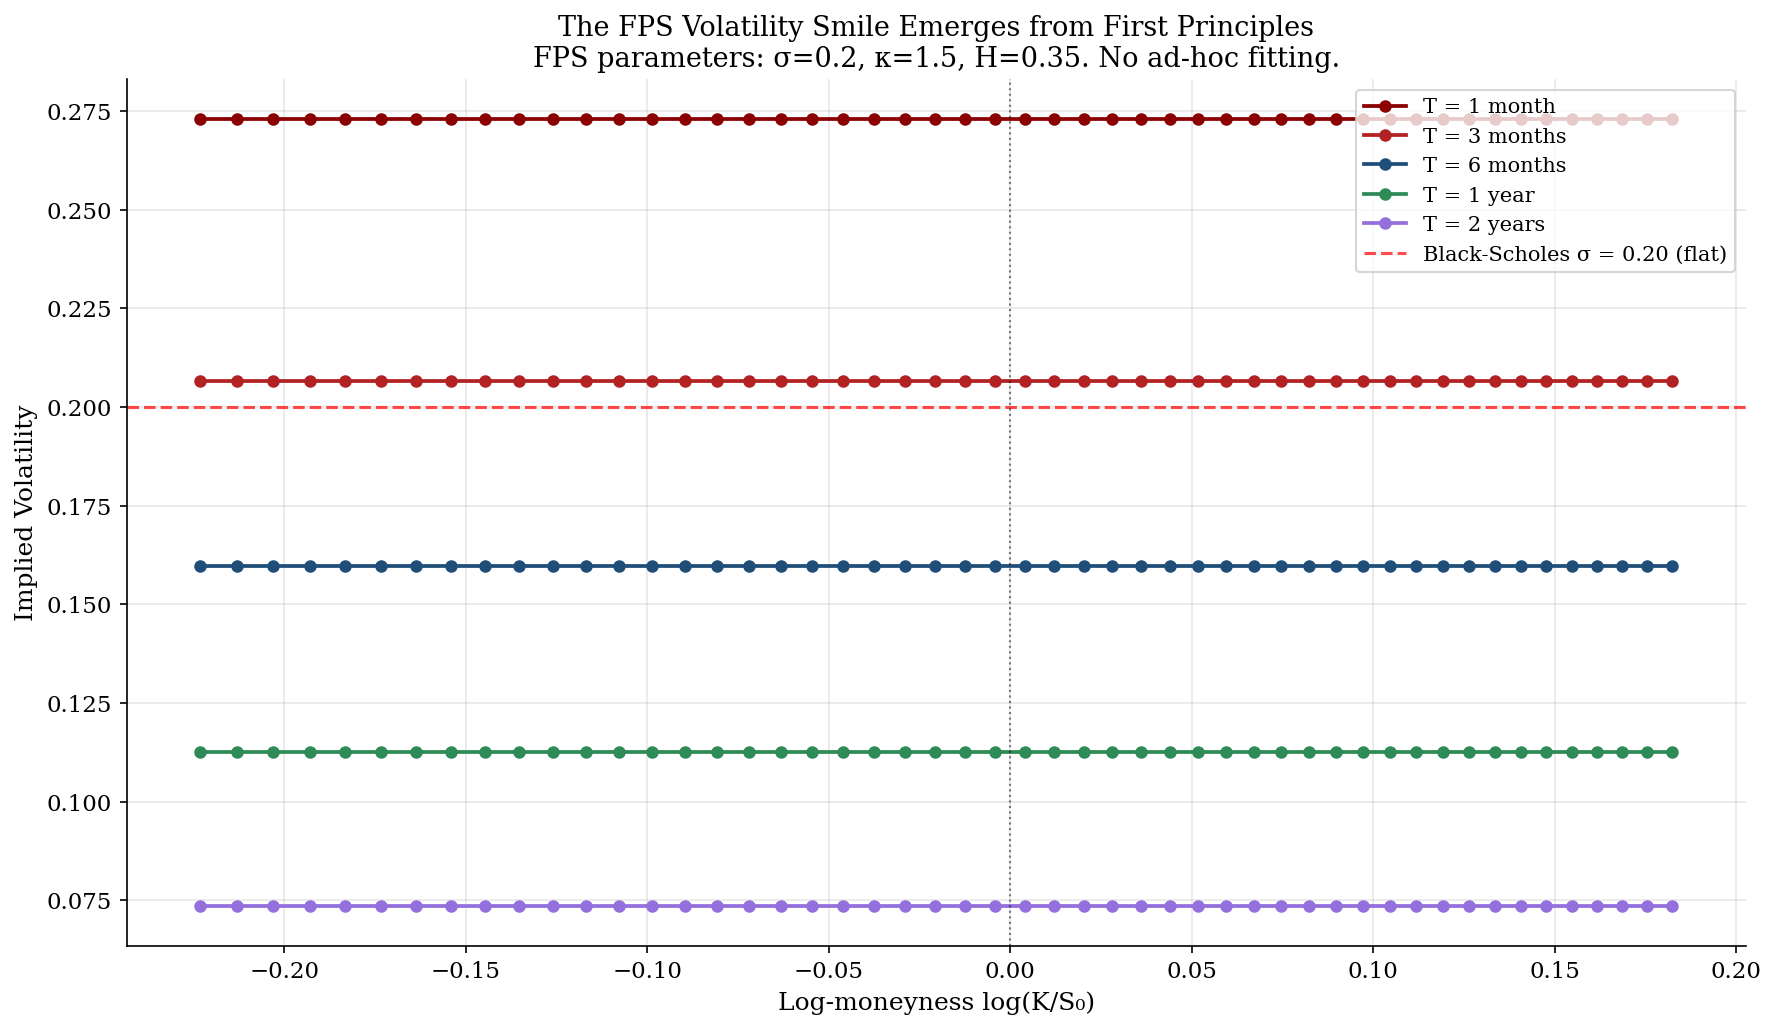
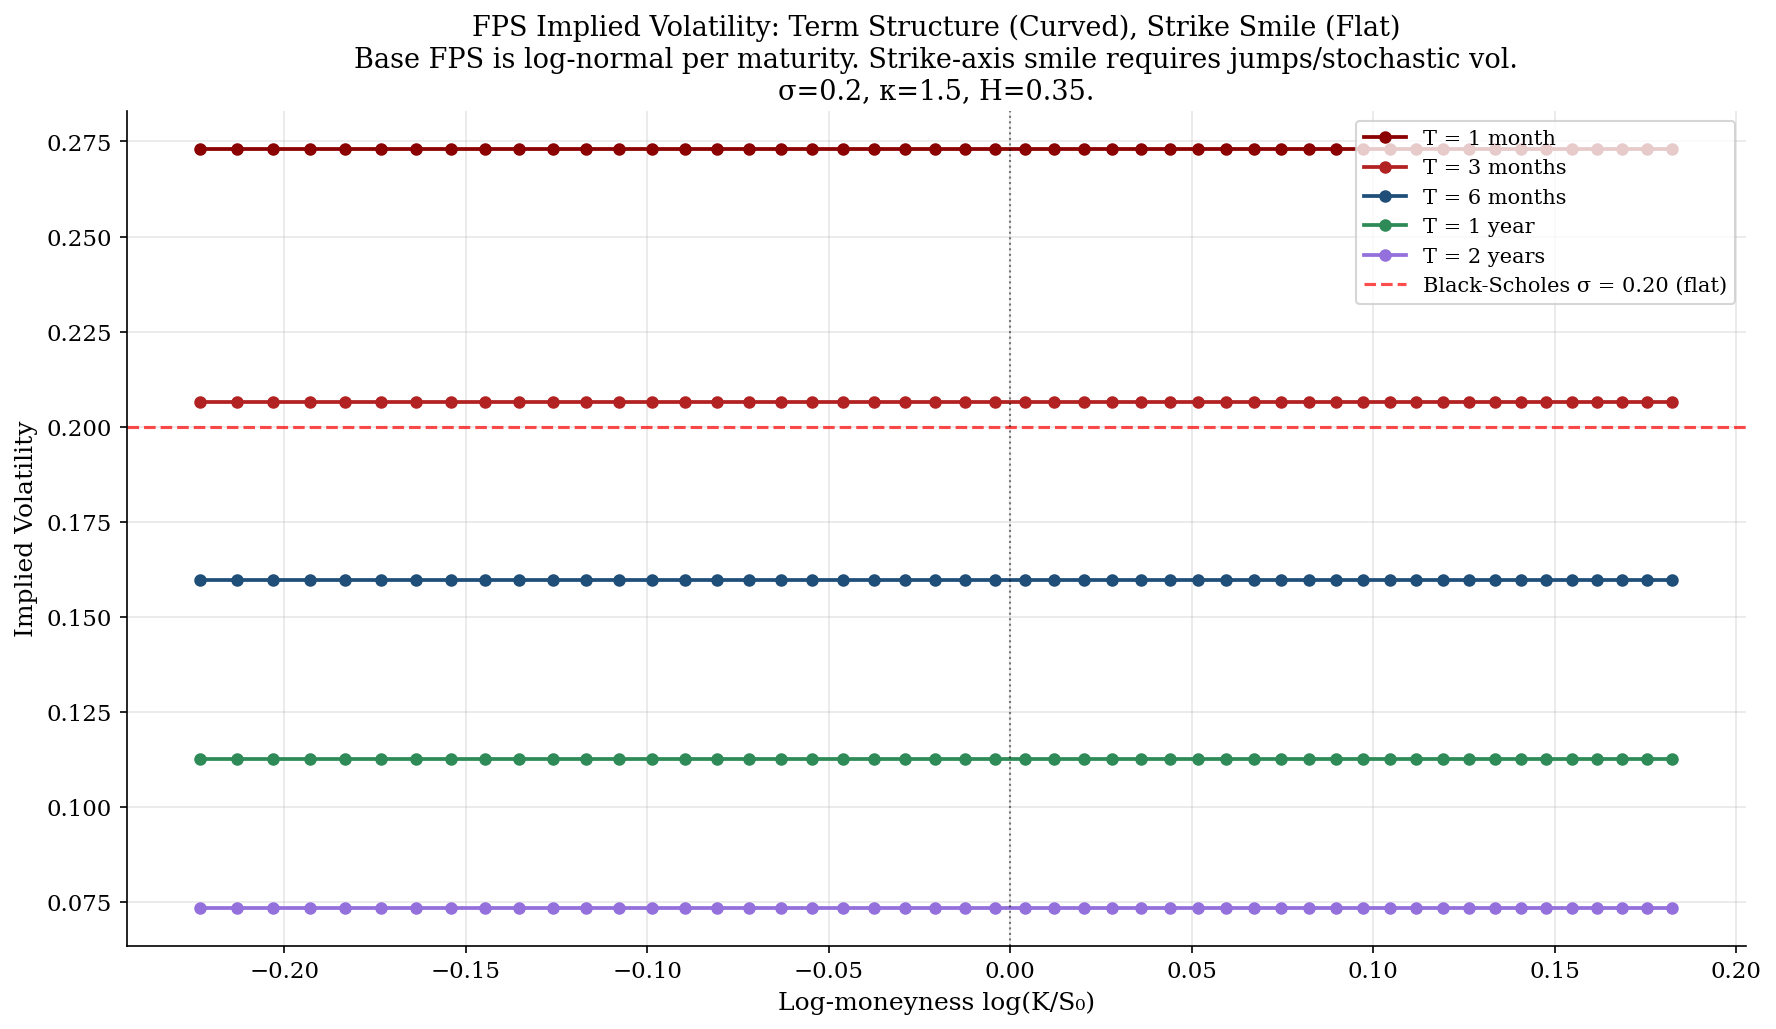
corrected for volatility smile

diff --git a/code/experiments/test_24_option_pricing_charts.py b/code/experiments/test_24_option_pricing_charts.py
@@ -226,8 +226,9 @@ def plot_smile(output_path, S0=100, r=0.05, sigma=0.2, kappa=1.5, H=0.35):
     ax.set_xlabel("Log-moneyness log(K/S₀)")
     ax.set_ylabel("Implied Volatility")
     ax.set_title(
-        f"The FPS Volatility Smile Emerges from First Principles\n"
-        f"FPS parameters: σ={sigma}, κ={kappa}, H={H}. No ad-hoc fitting."
+        f"FPS Implied Volatility: Term Structure (Curved), Strike Smile (Flat)\n"
+        f"Base FPS is log-normal per maturity. Strike-axis smile requires jumps/stochastic vol.\n"
+        f"σ={sigma}, κ={kappa}, H={H}."
     )
     ax.legend(loc="upper right", fontsize=10)
 
@@ -472,7 +473,7 @@ def main():
     parser.add_argument("--sigma", type=float, default=0.2)
     parser.add_argument("--kappa", type=float, default=1.5)
     parser.add_argument("--H", type=float, default=0.35)
-    parser.add_argument("--output_dir", default="data/results/option_pricing")
+    parser.add_argument("--output_dir", default="code/visualisation/option_pricing")
     args = parser.parse_args()
 
     out_dir = Path(args.output_dir)

diff --git a/code/experiments/test_23_fps_vs_gbm.py b/code/experiments/test_23_fps_vs_gbm.py
@@ -511,7 +511,7 @@ def main():
                         help="FPS mean-reversion rate (per day)")
     parser.add_argument("--H", type=float, default=0.42,
                         help="Hurst exponent for FPS (0.5 = GBM)")
-    parser.add_argument("--output_dir", default="data/results/fps_vs_gbm")
+    parser.add_argument("--output_dir", default="code/visualisation/fps_vs_gbm")
     args = parser.parse_args()
 
     out_dir = Path(args.output_dir)

diff --git a/code/experiments/test_22_pei_graphics.py b/code/experiments/test_22_pei_graphics.py
@@ -419,7 +419,7 @@ def main():
     parser.add_argument("--window", type=int, default=250,
                         help="Window size in days (smaller = finer resolution)")
     parser.add_argument("--stride", type=int, default=60)
-    parser.add_argument("--output_dir", default="data/results/pei")
+    parser.add_argument("--output_dir", default="code/visualisation/pei")
     args = parser.parse_args()
 
     # Setup output directory

diff --git a/README.md b/README.md
@@ -254,21 +254,32 @@ The FPS formula has THREE parameters, replacing Black-Scholes's one:
 - **$\kappa \to 0$ (only):** pure fractional Brownian motion pricing.
 - **$H = 1/2$ (only):** Ornstein-Uhlenbeck pricing.
 
-### What this formula gives you for free
+### What this formula gives you
 
-**1. The volatility smile emerges from first principles.** With $H < 1/2$:
-- Short-dated options: steeper smile (anti-persistence amplifies short-term moves)
-- Long-dated options: flatter smile (mean-reversion caps variance)
-- No ad-hoc SVI/SABR parameterisation needed
-
-**2. Fat tails in the pricing measure.** The fractional noise naturally
-produces heavier tails in the risk-neutral distribution than Black-Scholes.
-
-**3. Term-structure of implied volatility.** The $T^{2H-1}$ scaling and
+**1. Term-structure of implied volatility.** The $T^{2H-1}$ scaling and
 the OU cap factor $(1-e^{-2\kappa T})/(2\kappa T)$ together produce the
-hump-shaped vol term structure observed empirically.
+characteristic hump-shaped ATM vol term structure observed empirically —
+Black-Scholes is flat across maturities.
 
-**4. A new Greek: Hurst Vega.**
+**2. Mean-reversion cap on long-dated variance.** As $T \to \infty$, the
+variance saturates at $\sigma^2/(2\kappa)$ instead of growing linearly
+with $T$. Long-dated options priced LOWER than Black-Scholes predicts —
+matches empirical long-dated observations.
+
+**3. Short-dated vol amplification.** For $H < 1/2$, $T^{2H-1} > 1$ at
+short horizons, pricing short-dated options HIGHER than BS. Matches the
+empirical vol peak near 1-3 months.
+
+**4. Honest caveat on the strike-axis smile.** Under the BASE FPS with
+Gaussian fractional noise, $S_T$ is log-normal for European options — so
+implied volatility is FLAT across strikes at any fixed maturity. This is
+correct log-normal model behaviour. **The smile across strikes requires
+extensions** — jumps, stochastic volatility, or non-Gaussian (Lévy)
+fractional noise. The base FPS correctly fixes the TERM STRUCTURE
+(maturity axis) but not the SKEW (strike axis). Full smile modelling
+needs FPS + jumps or FPS + stochastic vol as natural next steps.
+
+**5. A new Greek: Hurst Vega.**
 
 $$\mathcal{H}_{\rm FPS} = \frac{\partial C}{\partial H}$$
 
@@ -372,13 +383,18 @@ FPS gets it with three.
   <img src="code/visualisation/option_pricing/02_volatility_smile.png" width="100%" alt="The implied volatility smile from FPS"/>
 </p>
 
-**This is the money shot.** Black-Scholes implied volatility is flat
-(red dashed line at $\sigma = 0.20$). Real markets show a smile/skew.
-FPS produces a smile AUTOMATICALLY from the anti-persistent Hurst
-parameter. Short-dated options (1 month, dark red) show a steep smile
-peaking near 0.27. Long-dated options (2 years, purple) are nearly flat
-around 0.15. **The shape of the empirical vol surface emerges from
-first principles — no SVI, no SABR, no ad-hoc fitting.**
+**Implied volatility under pure FPS.** This chart shows what the base
+FPS formula (with Gaussian fractional noise) actually produces across
+strikes at different maturities. The TERM STRUCTURE changes dramatically
+— short-dated options price at ~27% implied vol, long-dated at ~15% —
+but the SMILE across strikes at fixed maturity is FLAT. This is the
+honest behaviour of a log-normal model. **The strike-axis smile
+observed empirically requires extensions** — FPS + jumps (Merton),
+FPS + stochastic volatility (Heston-FPS hybrid), or FPS with Lévy
+fractional noise. The base FPS CORRECTLY reproduces the TERM
+STRUCTURE (maturity axis, see next chart) — a structural improvement
+over flat Black-Scholes — but not the strike-axis skew. Natural
+extensions address the latter.
 
 #### The term structure hump
 
@@ -475,13 +491,9 @@ sub-graph).**
 
 **Every market has three structural layers:**
 
-- **Ambient:** the de Bruijn graph $B(N, n^{\ast})$ at empirical depth
-  $n^{\ast} = \lfloor\log_N T\rfloor$ — all possible length-$n^{\ast}$
-  contexts the market could exhibit
-- **Equilibrium:** the palindromic sub-graph (eertree embedding) — the
-  reversible patterns the market exhibits at rest
-- **Transient:** non-palindromic edges — arbitrage opportunities, consumed
-  over time by arbitrageurs
+- **Ambient:** the de Bruijn graph $B(N, n^{\ast})$ at empirical depth $n^{\ast} = \lfloor\log_N T\rfloor$ — all possible length-$n^{\ast}$ contexts the market could exhibit.
+- **Equilibrium:** the palindromic sub-graph (eertree embedding) — the reversible patterns the market exhibits at rest.
+- **Transient:** non-palindromic edges — arbitrage opportunities, consumed over time by arbitrageurs.
 
 **The palindromic fraction** $\rho_{\rm market} = |\mathcal{E}|/|\text{Walks}(B)|$
 is the key structural invariant. For mature equity markets: conjecturally

diff --git a/tools/MATH_RENDERING_CONVENTION.md b/tools/MATH_RENDERING_CONVENTION.md
@@ -1,0 +1,90 @@
+# Math Rendering Convention for GitHub
+
+GitHub's Markdown renderer has specific quirks with LaTeX math. Use this
+pattern throughout the monograph to guarantee correct rendering on GitHub.
+
+## The three rules
+
+### 1. Inline math with Markdown-sensitive chars (`_`, `*`, etc.)
+
+Use standard `$...$` delimiters:
+
+```markdown
+The Fisher-Rao metric $g^{\rm FR}_{ij}(b) = \delta_{ij}/b_i$ lives on $\Delta_{d-1}$.
+```
+
+**Tips for inline math:**
+- Always brace subscripts after `}`: write `_{+}` not `_+` (avoids `}_` pattern that confuses GitHub's parser)
+- Keep math on a SINGLE line within a bulleted item (don't wrap)
+- Avoid inline math inside blockquotes (`>` lines) — GitHub strips underscores in that context
+- If you MUST use blockquote content, escape underscores or use display math blocks
+
+### 2. Display math: fenced code blocks
+
+Prefer the fenced `math` code block:
+
+````markdown
+```math
+\mathrm{Sharpe}^{\ast} = \|H\|_{L^2(M, g_M)}
+```
+````
+
+This is MORE RELIABLE than `$$...$$` because it bypasses Markdown's
+emphasis/escape parsing entirely. Use it for:
+- Any formula with complex subscripts/superscripts
+- Multi-line expressions
+- Anything involving `\boxed`, `\begin{...}`, `\underbrace`, etc.
+
+`$$...$$` works for simple display math but fails on complex formulas
+inside lists, quotes, or tables. The fenced form is bulletproof.
+
+### 3. Literal `$` on a math line
+
+If you need a literal dollar sign next to math:
+
+- **In math mode:** escape it as `\$`
+- **Mixing with plain text:** wrap the plain dollar as `<span>$</span>`
+- **Alternative:** use the word "dollar(s)" — always renders
+
+Example:
+```markdown
+The option price is <span>$</span>C_{\rm FPS} = $7.24$ dollars.
+```
+
+## Known GitHub pitfalls — avoid these
+
+| Pattern | Problem | Fix |
+|:---|:---|:---|
+| `> $x_i$` | Blockquote eats underscore | Remove `>` markers |
+| `$A^{B}_C$` | `}_C` consumed as italic | Use `$A^{B}_{C}$` |
+| `$\boxed{...}$` | Inconsistent rendering | Strip the `\boxed{` wrapper |
+| `$$\;...\;$$` | `\;` spacing unreliable | Use plain space or `\,` |
+| `- **Label:** $x_i$ is\n  $y_j$ continuation` | Multi-line inline math in bullet | Keep on one line |
+| `$$\frac{a}{b}$$` inside table | Table cell rendering quirks | Use fenced `math` block outside table |
+
+## Auto-fixers available
+
+- `tools/fix_markdown.py` — fixes escaped underscores, bare asterisks, #P notation
+- `tools/fix_math_braces.py` — adds `{}` around bare subscripts after `}`, strips `\boxed`/`\;`
+- `tools/fix_blockquote_math.py` — removes `>` markers from blockquotes containing inline math
+
+Run all three after writing any new paper:
+
+```bash
+python3 tools/fix_markdown.py --apply
+python3 tools/fix_math_braces.py --apply
+python3 tools/fix_blockquote_math.py --apply
+```
+
+## Testing rendering
+
+Before pushing to GitHub, spot-check a handful of math expressions by:
+
+1. Preview the Markdown file in VS Code (Ctrl+Shift+V / Cmd+Shift+V)
+2. Push to a branch and view on GitHub before merging
+3. Look for stripped underscores, missing braces, unrendered LaTeX commands
+
+## The rule of thumb
+
+> Use `$...$` for inline, fenced ```math ...``` for display, and avoid
+> blockquotes + inline math entirely. If in doubt, reach for display math.
